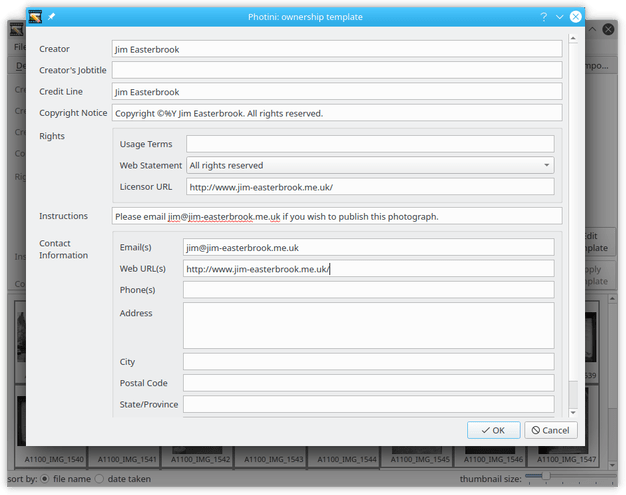
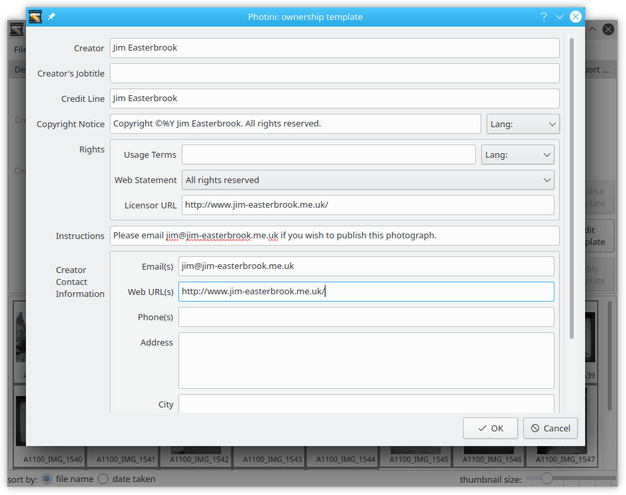
Update ownership tab documentation

Changed region(s): [[0.0, 0.0606, 1.0, 0.9697], [0.0, 0.6061, 0.0304, 0.7576]]

diff --git a/src/photini/__init__.py b/src/photini/__init__.py
@@ -1,4 +1,4 @@
 """Full documentation is at https://photini.readthedocs.io/"""
 
 __version__ = '2022.4.0'
-build = '2119 (84f8333)'
+build = '2120 (3788c33)'

diff --git a/src/doc/manual/ownership_metadata.rst b/src/doc/manual/ownership_metadata.rst
@@ -10,13 +10,13 @@ The ``Ownership metadata`` tab (keyboard shortcut ``Alt+O``) allows you to edit 
 .. image:: ../images/screenshot_200.png
 
 Most of this data will be the same for all your photographs, so Photini uses a "template" to apply the same text to all the selected images.
-The ``Edit template`` button opens the dialog shown below.
+If your photographs already have some of this information (some cameras set the creator and copyright notice) you can copy it to the template by selecting one or more photographs and clicking on ``Initialise template``.
+Otherwise use the ``Edit template`` button to open the dialog shown below.
 
 .. image:: ../images/screenshot_201.png
 
 Fill in any of the fields you want to use on every photograph.
 The field labels are copied from the `IPTC standard`_, as is the help text which should pop up if you hover your mouse over a field.
-If you have already set your copyright holder and creator names on the :doc:`descriptive_metadata` tab then this information should already be on the form.
 
 .. image:: ../images/screenshot_202.png
 
